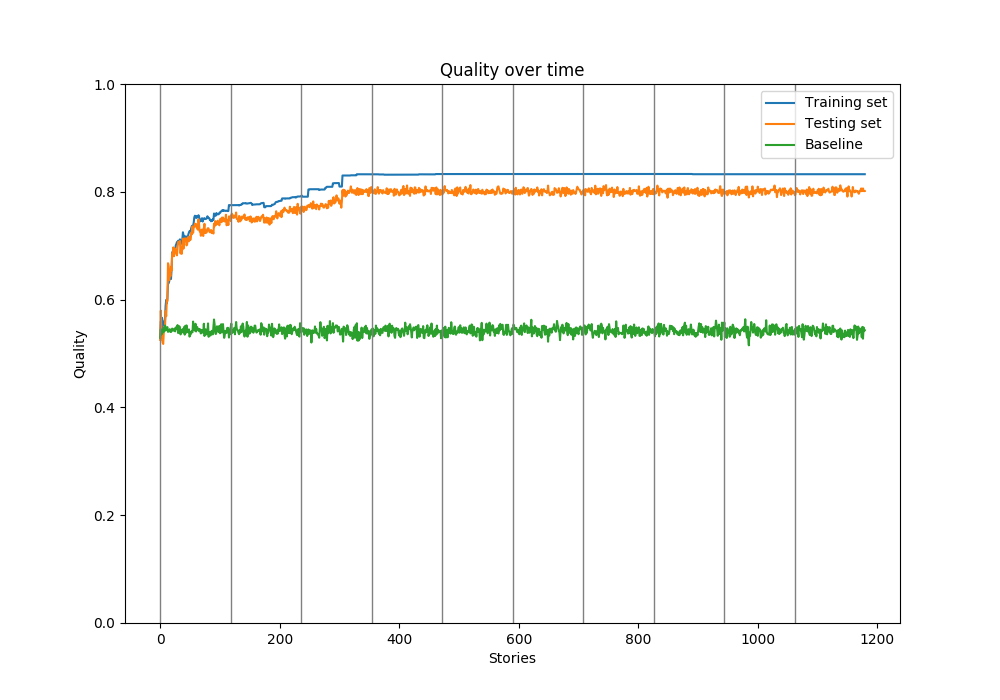
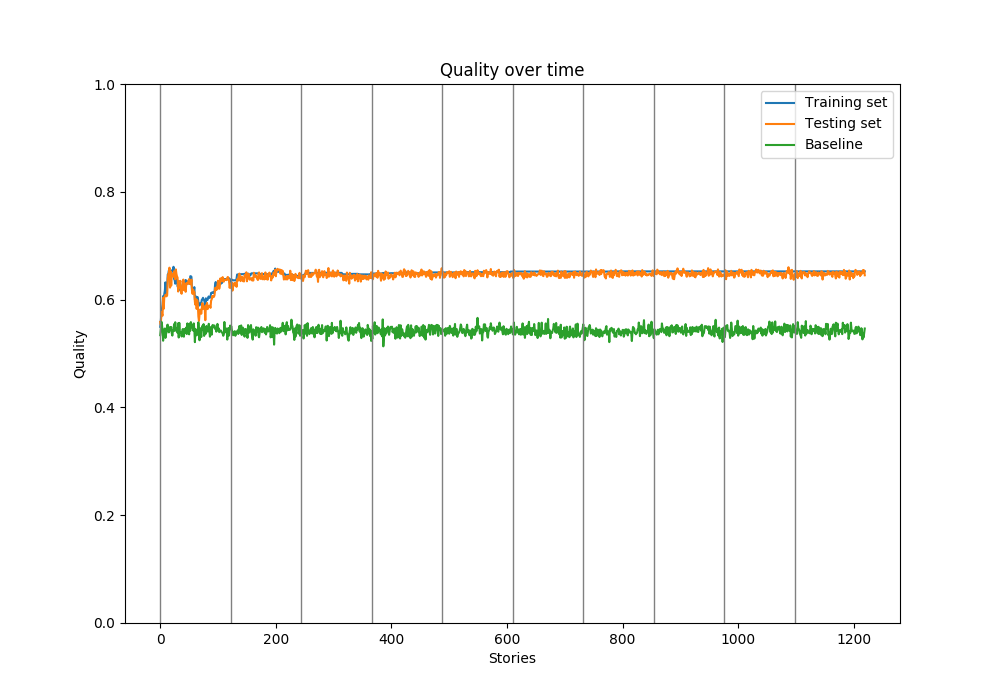
higher reward, better title and moral movement

diff --git a/main.py b/main.py
@@ -6,7 +6,7 @@ import re
 
 from ast import literal_eval as make_tuple
 from naoqi import ALProxy
-from random import randint
+from random import randint, choice
 from stanfordcorenlp import StanfordCoreNLP
 
 
@@ -22,12 +22,11 @@ class StoryTeller:
 
 	def __init__(self):
 		self.init_gestures()
-		#self.init_gesture_handler()
 		self.init_sentiment_analysis_client()
 
 
 	def init_robot_connection(self):
-		self.ip = "169.254.156.88"
+		self.ip = "169.254.177.0"
 		self.port = 9559
 		self.tts = self.get_session(TTSAPI)
 		self.memory = self.get_session("ALMemory")
@@ -38,9 +37,9 @@ class StoryTeller:
 	def init_stories(self):
 		with open("aesopFables.json") as file:
 			dataset = json.load(file)["stories"]
-		self.story = dataset[44]
+		self.story = dataset[20]
 		self.sentences = self.story["story"]
-		processed_story = [" \\mrk=" + str(i + 1) + "\\ " + str(self.sentences[i]) \
+		processed_story = [" \\mrk=" + str(i + 2) + "\\ " + str(self.sentences[i]) \
 					 for i in range(len(self.sentences))]
 		
 		self.story["story"] = "\\rspd=85\\" + \
@@ -48,7 +47,7 @@ class StoryTeller:
 
 
 	def init_policy(self):
-		with open("best_policy.json") as file:
+		with open("best_policy_run0.json") as file:
 			policy = json.load(file)
 		self.policy = {make_tuple(x): str(y) for (x, y) in policy.items()}
 
@@ -109,6 +108,9 @@ class StoryTeller:
 		 'animations/Stand/BodyTalk/Speaking/BodyTalk_2': [0.1, 0.25, 0.3, 0.25, 0.1], 
 		 'animations/Stand/Gestures/Desperate_1': [0.718, 0.138, 0.048, 0.048, 0.048], 
 		 'animations/Stand/Emotions/Positive/Sure_1': [0.2, 0.5, 0.2, 0.05, 0.05]}
+
+		self.neutral_gestures = [x for x in self.gesture_to_probability \
+									if np.argmax(self.gesture_to_probability[x]) == 2]
 
 
 	def init_gesture_handler(self):
@@ -206,27 +208,36 @@ class StoryTeller:
 		return gest_to_use[sentence_index - 1]
 
 
-	def choose_gesture(self, sentence_index):
+	def choose_gesture(self, _):
 		gesture_index = randint(0, len(self.gesture_to_probability) - 1)
 		gesture = self.gesture_to_probability.keys()[gesture_index]
 		return gesture
 
-	def choose_policy_gesture(self, _):
+	def choose_policy_gesture(self, sentence_index):
 		# TODO move to utils
 		sentence = self.sentences[sentence_index]
 		state = self.get_corenlp_sentiment(sentence)
 		state = tuple([round(x, 1) for x in state])
-		return self.policy[state]
+		if state in self.policy:
+			return self.policy[state]
+
+		# if the state is not contained in the policy
+		# return a random gesture
+		print("Random Neutral Gesture")
+		return choice(self.neutral_gestures)
 
 
 	def bookmark_handler(self, value):
 		print("Value = ", value)
 		#gesture = self.choose_gesture()
 		#gesture = self.choose_best_gesture(int(value))
-		if int(value) == 0:
+		index = int(value) - 2
+		if index == -2:
 			return
-		index = int(value) - 1
-		gesture = self.choose_policy_gesture(index)
+		elif index == -1:
+			gesture = "animations/Stand/BodyTalk/BodyLanguage/NAO/Center_Slow_AFF_03"
+		else:
+			gesture = self.choose_policy_gesture(index)
 		self.anim.run(gesture)
 		quality = self.quality_function(self.sentences[index], gesture)
 		self.quality_sum += quality
@@ -234,6 +245,7 @@ class StoryTeller:
 
 	def main(self):
 		self.init_robot_connection()
+		self.init_gesture_handler()
 		self.init_stories()
 		self.init_policy()
 
@@ -242,11 +254,11 @@ class StoryTeller:
 		self.sub = memory_service.subscriber("ALTextToSpeech/CurrentBookMark")
 		self.sub.signal.connect(self.bookmark_handler)
 		
-		self.anim.run("animations/Stand/BodyTalk/BodyLanguage/NAO/Center_Slow_AFF_03")
-		self.tts.say(str(self.story["title"]))
+		#self.anim.run("animations/Stand/BodyTalk/BodyLanguage/NAO/Center_Slow_AFF_03")
+		self.tts.say(" \\mrk=1\\ "  + str(self.story["title"]))
 		self.tts.say(str(self.story["story"]))
-		self.anim.run("animations/Stand/BodyTalk/BodyLanguage/NAO/Center_Slow_AFF_03")
-		self.tts.say("Moral of the story: " + str(self.story["moral"]))
+		#self.anim.run("animations/Stand/BodyTalk/BodyLanguage/NAO/Center_Slow_AFF_03")
+		self.tts.say("Moral of the story: \\mrk=1\\ " + str(self.story["moral"]))
 		
 		self.quality_sum = self.quality_sum / len(self.sentences)
 		print(self.quality_sum)
@@ -308,7 +320,7 @@ def run_simulations(story_teller):
 
 if __name__ == "__main__":
 	story_teller = StoryTeller()
-	#story_teller.main()
+	story_teller.main()
 	#run_simulations(story_teller)
 	#story_teller.try_leds()
 	

diff --git a/learner.py b/learner.py
@@ -104,7 +104,7 @@ class QLearner:
 
 	def best_action(self, state):
 		if state not in self.state_action_table or \
-                                       not self.state_action_table[state]:
+             not self.state_action_table[state]:
 			return random.choice(self.story_teller.gesture_list)
 		gesture = max(self.state_action_table[state].items(), \
                                                key=lambda (x, y): y)
@@ -168,9 +168,9 @@ class QLearner:
 						self.state_action_table[state] = {}
 					gesture = self.choose_action(state)
 
-					reward = self.reward(state, gesture)
+					reward = self.reward(state, gesture) * 2.0
 					next_utility = 0.0
-					penalty = 0.0
+					repeat_gesture_penalty = 0.0
 					if i != len(story["story"]) - 1:
 						next_state = self.sentence_to_state[story["story"][i +
 						                                                   1]]
@@ -178,16 +178,17 @@ class QLearner:
 						next_utility = self.state_action_table.get(
 						        next_state, {}).get(next_action, 0.0)
 						if next_action == gesture:
-							penalty = -3.0
+							repeat_gesture_penalty = -3.0
 					current_utility = self.state_action_table[state].get(
 					        gesture, 0.0)
 
+					gesture_distribution = self.story_teller.gesture_to_probability[gesture]
+					expressivity_reward = (gesture_distribution[0] + gesture_distribution[4]) * 2.0
 					self.state_action_table[state][gesture] = \
                                 current_utility + \
                                 self.learning_rate * \
                                  (reward + self.decay * next_utility +  \
-                                 	penalty - current_utility)
-			epoch += 1
+                                 	repeat_gesture_penalty + expressivity_reward - current_utility)
 
 		print("Done training")
 		print("----> Best quality: {:4f}".format(best_qual))
@@ -195,7 +196,7 @@ class QLearner:
 
 
 	def test(self, select_set):
-		#error = 0.0
+		# error = 0.0
 		quality = 0.0
 		num_sen = 0
 		selected_set = None
@@ -252,15 +253,15 @@ class QLearner:
 			print("-" * 10)
 			self.state_action_table = {}
 			train_qualities, test_qualities, baseline_qualities, best_policy = self.train()
-			# title = "best_policy_run{}.json".format(indx)
+			title = "best_policy_run{}.json".format(indx)
 			# quality_title = "quality_run{}".format(indx)
 			# loss_title = "loss_run{}".format(indx)
-			# with open(title, "w") as file:
-			# 	best_policy = {
-			# 	        str(state): best_action(state, best_policy)
-			# 	        for state in best_policy
-			# 	}
-			# 	json.dump(best_policy, file)
+			with open(title, "w") as file:
+				best_policy = {
+				        str(state): best_action(state, best_policy)
+				        for state in best_policy
+				}
+				json.dump(best_policy, file)
 			self.plot_data(train_qualities, test_qualities, baseline_qualities)
 			#total_q_train.append(train_qualities)
 			#total_q_test.append(test_qualities)
